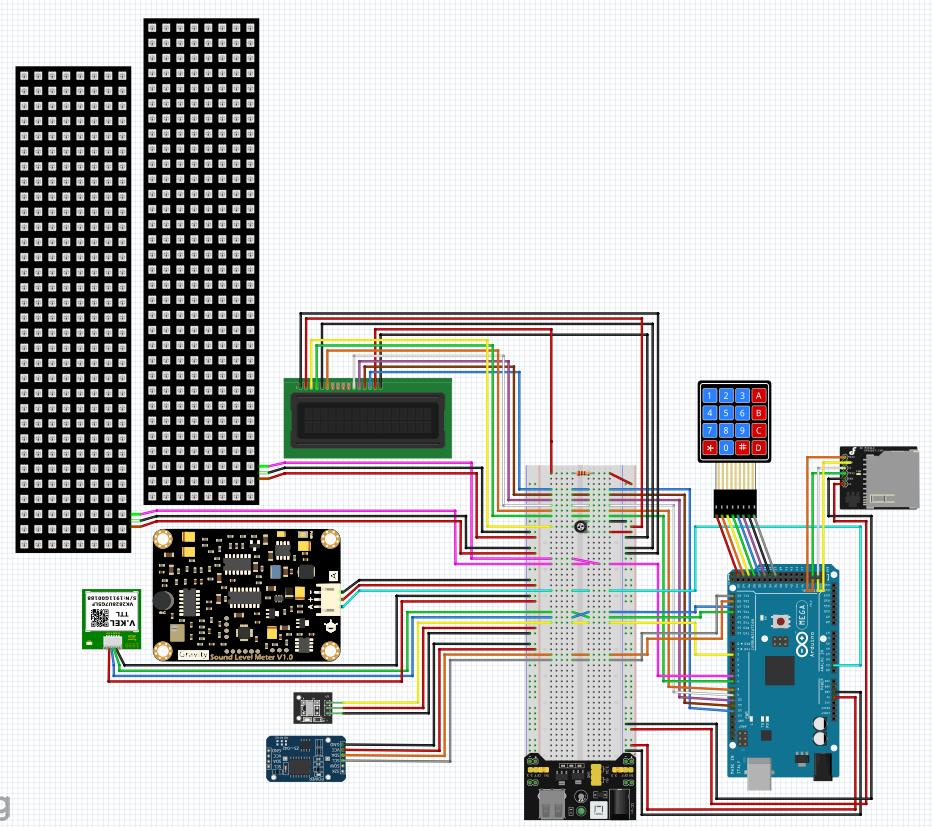
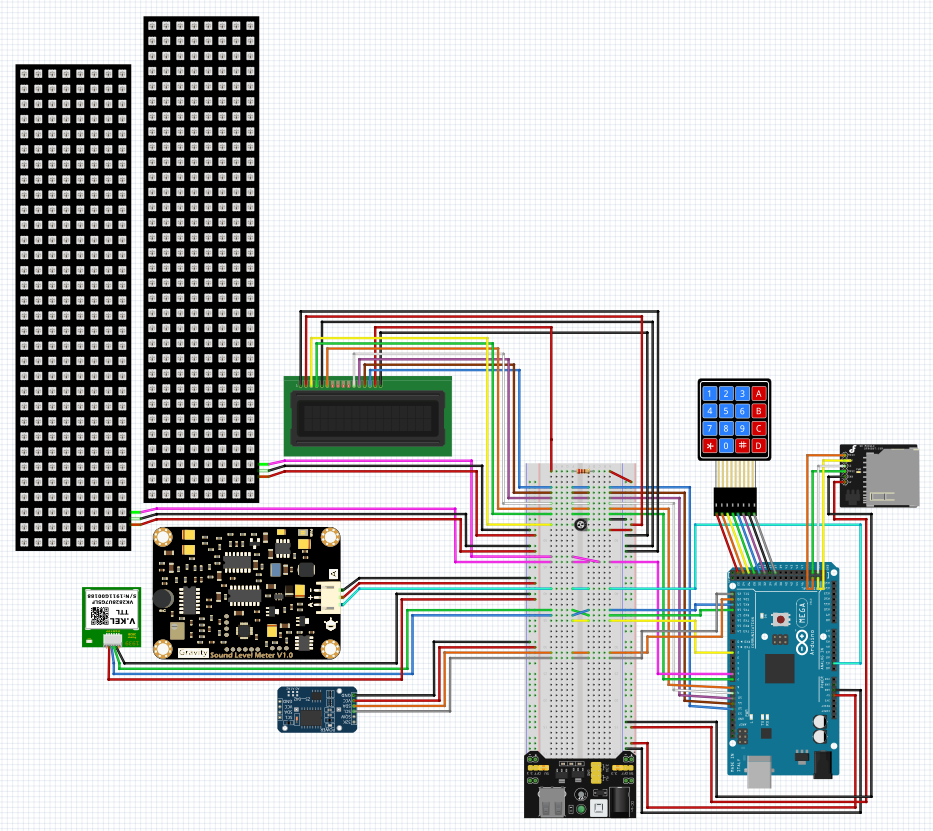
Updates documentation

Changed region(s): [[0.0, 0.0, 0.9957, 0.9976], [0.0, 0.9674, 0.0311, 0.9976]]

diff --git a/README.md b/README.md
@@ -8,9 +8,9 @@ Because I can't just build a "normal" festival totem, I wanted to build somethin
 
 # So how does that translate into reality?
 
-The idea is to create a totem that meets festival height requirements, uses an addressable LED matrix to show ambient noise levels, allow the LED matrix to be controlled with a remote (change colors, display messages, re-calibrate, etc), capture data (GPS coordinates, date-time, decibel levels, remote key presses, etc) to an SD card.
+The idea is to create a totem that meets festival height requirements, uses an addressable LED matrix to show ambient noise levels, allow the LED matrix to be controlled with a number pad (change colors, display messages, re-calibrate, etc), capture data (GPS coordinates, date-time, decibel levels, remote key presses, etc) to an SD card.
 
-Now I have no clue the actual look of the totem, but the running concept is to have a character that encourages people to generate enough noise to get the meter to light up red.
+Now I have no clue the actual look of the totem, but the running concept is to have a something that encourages people to generate enough noise to get the meter to light up red.
 
 ## Prototype Layout
 ![Image of prototype](/images/diagram.PNG)
@@ -23,10 +23,13 @@ Now I have no clue the actual look of the totem, but the running concept is to h
  - [GPS Module](https://www.dfrobot.com/product-1302.html)
  - [SD Card Logging Shield](https://www.velleman.eu/products/view/?id=435522)
  - 10kΩ Potentiometer
+ - 330Ω Resistor
  - [RF Receiver](https://arduinomodules.info/ky-022-infrared-receiver-module/)
  - [Real Time Clock](https://create.arduino.cc/projecthub/MisterBotBreak/how-to-use-a-real-time-clock-module-ds3231-bc90fe)
  - [LCD Panel (16x2)](http://wiki.sunfounder.cc/index.php?title=LCD1602_Module)
- - [Addressable LED Matrix (32x8)](https://www.btf-lighting.com/products/ws2812b-panel-screen-8-8-16-16-8-32-pixel-256-pixels-digital-flexible-led-programmed-individually-addressable-full-color-dc5v?variant=20203594612836)
+ - [Addressable LED Matrix (32x8) x2](https://www.btf-lighting.com/products/ws2812b-panel-screen-8-8-16-16-8-32-pixel-256-pixels-digital-flexible-led-programmed-individually-addressable-full-color-dc5v?variant=20203594612836)
+ - [Power supply module](https://tinkersphere.com/power/379-breadboard-power-supply-module-33v-5v-arduino-raspberry-pi-compatible.html)
+ - [Membrane Switch Module (4x4)](https://tinkersphere.com/buttons-switches/762-adhesive-keypad-membrane-matrix-3x4.html)
 
 ## Why is this project so sloppy?
 Yes, I get it.  The parts I've created in Fritzing look rushed and incomplete, the prototype is a little slopyy, etc.  I'm learning.
